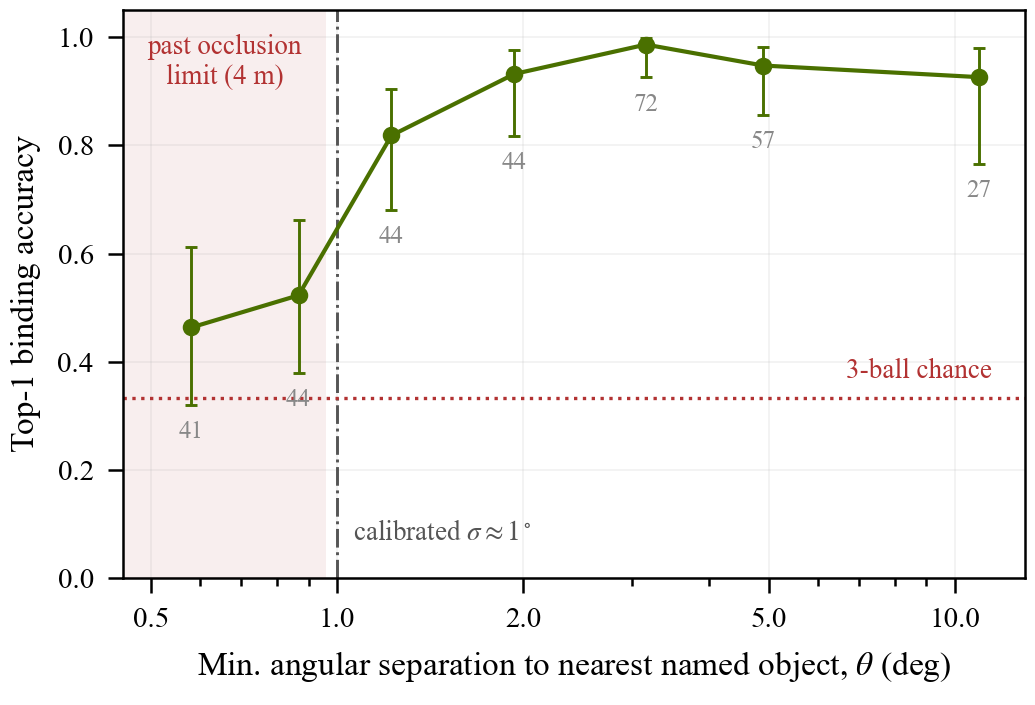
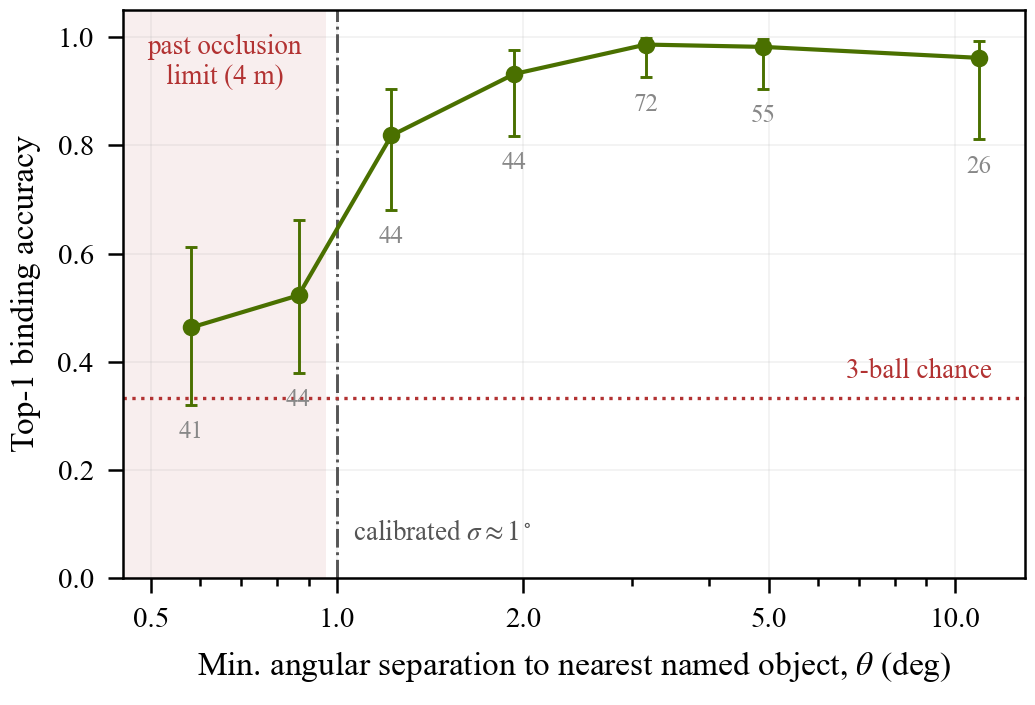
9-07 p2 三条盯错球 trial 按参与者执行错剔除(collect_e1 加 drop=序号 → exec_error 标签,主曲线与 plot_fig4 过滤同步):主曲线 327,顶部两箱 54/55、25/26

Changed region(s): [[0.6184, 0.0624, 0.9585, 0.1872], [0.9275, 0.2184, 0.9585, 0.2809]]

diff --git a/Eye_Tracker/tools/collect_e1.py b/Eye_Tracker/tools/collect_e1.py
@@ -23,6 +23,7 @@ R = Path("/home/liuchy/recordings")
 
 # (csv 路径, 卡, 房间, 地图, 站位描述, 标签集)
 # 标签:stress=前排俘获压力段(不进主曲线);beyond_occ=超物理遮挡极限(进曲线,单独标记)
+# drop=2|3|7 = 按展开后的 trial 序号打 exec_error(参与者执行错,不进主曲线);
 # occ=甲|乙 = 目标级遮挡:该录像里目标为甲/乙的 trial 打 beyond_occ(其余目标不打),用于同一站位只有第二排被挡的情形
 RECS = [
     (R/"2026_08_16/000/e1_score.csv", "e1", "老房", "v7", "1.4-1.7m 正对", set()),
@@ -52,7 +53,8 @@ RECS = [
     (R/"2026_09_07/p1_v4/v4_score.csv",        "v4", "新房", "v10", "2.2m 边走", {"walking", "p1"}),
     (R/"2026_09_07/v1_near/v1_score.csv",      "v1", "新房", "v10", "1.34m α-17°", set()),
     (R/"2026_09_07/v2_near/v2_score.csv",      "v2", "新房", "v10", "1.26m α+23°", set()),
-    (R/"2026_09_07/v2_near_p2/v2_score.csv",   "v2", "新房", "v10", "1.05m α-25°", {"p2"}),
+    # p2 第 2/3/7 项盯错球(系统以票面 1.0 绑到实际注视的球):参与者执行错,标 exec_error 不进主曲线(09-07 用户裁定)
+    (R/"2026_09_07/v2_near_p2/v2_score.csv",   "v2", "新房", "v10", "1.05m α-25°", {"p2", "drop=2|3|7"}),
     # 目标级遮挡标签(09-07):正对 2.99 m 时第二排目标按"可见高度比 <50%"判遮挡(v10 地图几何,眼高 1.55 m:
     # 香蕉在苹果红后 0%、橘子在白杯1后 18%、白杯2在网球R后 45%;苹果粉在网球L后 100% 不标);v6_mid 1.80 m 全部 ≥65% 不标
     (R/"2026_09_07/v6_far/v6_score.csv",       "v6", "新房", "v10", "2.99m 正对", {"occ=香蕉|橘子|白杯2"}),
@@ -76,7 +78,12 @@ def unit_rows(csv_path, card, room, mapv, station, tags):
     for t in tags:
         if t.startswith("occ="):
             occ_targets |= set(t[4:].split("|"))
-    base_tags = {t for t in tags if not t.startswith("occ=")}
+    drop_idx = set()
+    for t in tags:
+        if t.startswith("drop="):
+            drop_idx |= {int(x) for x in t[5:].split("|")}
+    base_tags = {t for t in tags if not t.startswith(("occ=", "drop="))}
+    idx = 0
     for r in csv.DictReader(csv_path.open(encoding="utf-8")):
         v = r["verdict"]
         m = re.match(r"^(.*?)(?:×(\d+))?$", r["want"])
@@ -97,6 +104,9 @@ def unit_rows(csv_path, card, room, mapv, station, tags):
         th = r["theta_min_deg"]
         for i in range(k):
             hit = i < credit
+            idx += 1
+            if idx in drop_idx:
+                base = dict(base, tags="|".join(sorted(row_tags | {"exec_error"})))
             if tu:  # 结果盲:同一(录像,目标)单元的 trial 共用 θ_unit,与命中无关
                 rows.append(dict(base, outcome="hit" if hit else "miss", theta_deg=tu, theta_src="unit"))
             else:   # 旧 CSV 兜底:命中行用注视 θ,漏掉的用录像中位(横轴与结果挂钩,勿用于终稿)
@@ -122,7 +132,7 @@ def main():
         w.writerows(all_rows)
 
     trials = [r for r in all_rows if r["outcome"] in ("hit", "miss")
-              and not ({"stress", "walking"} & set(r["tags"].split("|")))
+              and not ({"stress", "walking", "exec_error"} & set(r["tags"].split("|")))
               and r["theta_deg"] != ""]
     th = np.array([float(r["theta_deg"]) for r in trials])
     ok = np.array([r["outcome"] == "hit" for r in trials])

diff --git a/Eye_Tracker/tools/plot_fig4.py b/Eye_Tracker/tools/plot_fig4.py
@@ -40,7 +40,7 @@ def wilson(hits: int, n: int) -> tuple[float, float]:
 def load_bins():
     trials = [r for r in csv.DictReader((DATA / "trials.csv").open(encoding="utf-8"))
               if r["outcome"] in ("hit", "miss")
-              and not ({"stress", "walking"} & set(r["tags"].split("|")))   # 主集口径,与 collect_e1 一致
+              and not ({"stress", "walking", "exec_error"} & set(r["tags"].split("|")))   # 主集口径,与 collect_e1 一致
               and r["theta_deg"]]
     th = np.array([float(r["theta_deg"]) for r in trials])
     ok = np.array([r["outcome"] == "hit" for r in trials])
@@ -127,7 +127,7 @@ def main():
     print(f"total {n} trials, {h} hits ({h/n:.1%})")
     # 正文 TBD{E1-far} 的清晰/遮挡拆分(beyond_occ 逐 trial 标签;θ<1° 含首箱以下的 trial)
     main = [r for r in csv.DictReader((DATA / "trials.csv").open(encoding="utf-8"))
-            if r["outcome"] in ("hit", "miss") and not ({"stress", "walking"} & set(r["tags"].split("|"))) and r["theta_deg"]]
+            if r["outcome"] in ("hit", "miss") and not ({"stress", "walking", "exec_error"} & set(r["tags"].split("|"))) and r["theta_deg"]]
     below = [r for r in main if float(r["theta_deg"]) < BINS[0]]
     print(f"main set {len(main)} trials; {len(below)} below first bin ({BINS[0]}°), not drawn: "
           + ", ".join(f"{r['rec']}/{r['target']}/{r['outcome']}" for r in below))

diff --git a/docs/E1_RESULTS.md b/docs/E1_RESULTS.md
@@ -102,15 +102,15 @@ u1 正对站侧向分量 3.7cm(≈0.6°)叠加后排水果邻近,全场票面 <0
 | 09_07/p1_v4 | v4 边走 | p1 | 2.0–2.6 m 横向慢走 | 1.95° | 15/15 | E1-walk 专项 |
 | 09_07/v1_near | v1 球卡 | 本人 | 1.34 m α−17° | 5.02° | 14/15(R×2 前先停白杯2) | 入曲线 |
 | 09_07/v2_near | v2 球卡 | 本人 | 1.26 m α+23° | 6.25° | 14/15(R×2 被白杯1 插段) | 入曲线 |
-| 09_07/v2_near_p2 | v2 球卡 | p2 | 1.05 m α−25° | 5.56° | 12/15(第 4/7 项盯错球,票面 1.0) | 入曲线;是否按"参与者执行错"披露剔除待定 |
+| 09_07/v2_near_p2 | v2 球卡 | p2 | 1.05 m α−25° | 5.56° | 12/12(第 2/3/7 项盯错球:系统以票面 1.0 绑到实际注视的球,exec_error 标签剔除,09-07 裁定) | 入曲线 |
 | 09_07/v6_far | v6 综合 | 本人 | 2.99 m 正对 | 0.84° | 7/12(香蕉–苹果红 0.45°、白杯1–橘子 0.62° 两对) | 入曲线 |
 | 09_07/v6_mid | v6 综合 | 本人 | 1.80 m 正对 | 2.08° | 11/12(首项香蕉→苹果红) | 入曲线 |
 | 09_07/v6_near | v6 综合 | 本人 | 1.23 m α−24° | 4.29° | 12/12 | 入曲线 |
 | 09_07/v6_move | v6 综合 | 本人 | 1.0–1.3 m 边走 α−55…+31° | 5.13° | 12/12 | E1-walk 专项 |
 
 **口径提醒**:论文 θ 对全部命名物算,v10 第二排就在球正后方,所以球卡 3 m 以外 θ<1.5°、卡片标题里的 6.9°/3.0° 是只算三球的数;补 4–6°/6–20° 两箱靠 1.2–1.5 m 近站。
-**主曲线更新:330 trial(v7 69 / v8 45 / v9 117 / v10 126 非边走)**,分箱 n:<0.75 41(首箱 [0,0.75) 含 θ<0.5 的 9 条,09-07 裁定不扩箱一起包进)· 0.75–1 44 · 1–1.5 44 · 1.5–2.5 44 · 2.5–4 72 · 4–6 57 · 6–20 27;
-精度 0.46 / 0.52 / 0.82 / 0.93 / 0.99 / 0.95 / 0.93。顶部两箱从 1.00 降到 0.93–0.95,全部是近站的 R 连击被杯子插段与 p2 盯错球所致。参与者 3 人(作者 354 trial、p1 30、p2 15,含边走)。
+**主曲线更新:327 trial(v7 69 / v8 45 / v9 117 / v10 123 非边走;p2 三条执行错以 exec_error 剔除)**,分箱 n:<0.75 41(首箱 [0,0.75) 含 θ<0.5 的 9 条,09-07 裁定不扩箱一起包进)· 0.75–1 44 · 1–1.5 44 · 1.5–2.5 44 · 2.5–4 72 · 4–6 55 · 6–20 26;
+精度 0.46 / 0.52 / 0.82 / 0.93 / 0.99 / 0.98 / 0.96。顶部两箱剩下的两条 miss 是近站 R 连击被杯子插段(冻结计分规则,不动)。参与者 3 人(作者 354 trial、p1 30、p2 12,含边走)。
 
 **目标级遮挡标签(09-07 加,collect_e1 `occ=` 语法)**:v10 的遮挡发生在"第二排目标被前排挡住",与站位无关而与目标有关。
 按 v10 地图几何算正对 2.99 m 处第二排目标的可见高度比(眼高 1.55 m):香蕉在苹果红后 0%、橘子在白杯1后 18%、白杯2在网球R后 45%
